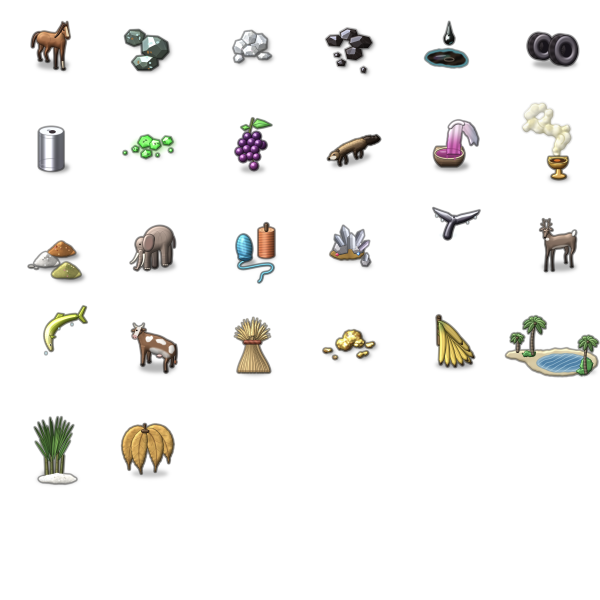
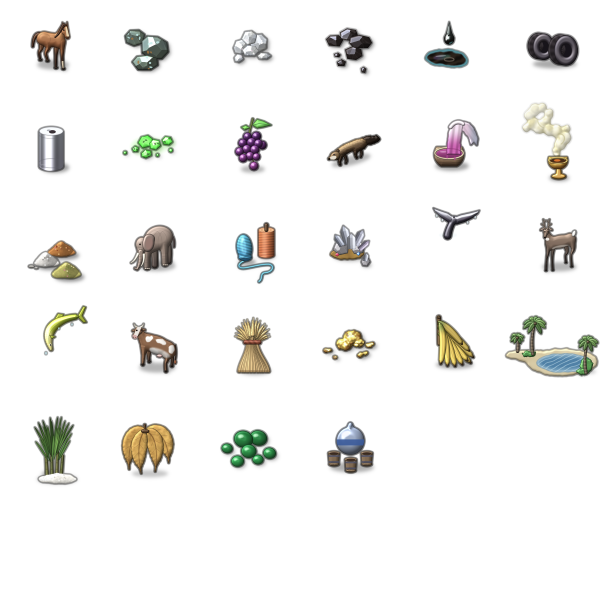
Standalone: MDJ's Jade and Sake, remade from the Sengoku conquest's, in our resource sheet's empty cells

Changed region(s): [[0.54, 0.69, 0.63, 0.81], [0.36, 0.69, 0.48, 0.78]]

diff --git a/ArtGen/terrain_features/resources.py b/ArtGen/terrain_features/resources.py
@@ -1373,6 +1373,66 @@ def crystal(cv, base, tip, w, col, seed):
         cv.atop(np.maximum(line, along - ln * neck), hexc('#ffffff') if edge_off > 0 else hexc('#40405a'), 0.35)
 
 
+def icon_jade():
+    """MDJ's Jade (the Sengoku conquest's resources.pcx, cell 7): a heap of
+    polished green stones."""
+    cv, sh = Canvas(), Shadow()
+    stones = [  # back to front: x, y, rx, ry, seed
+        (29.2, 19.0, 4.4, 3.8, 81), (21.8, 19.6, 4.8, 4.2, 82), (13.6, 24.2, 2.8, 2.4, 83),
+        (34.8, 26.6, 3.2, 2.8, 84), (24.4, 25.6, 3.8, 3.4, 85), (29.0, 29.8, 2.8, 2.4, 86),
+        (18.8, 30.6, 3.2, 2.8, 87),
+    ]
+    for x, y, rx, ry, s in stones:
+        sh.ellipse(x + 1.0, y + 1.4, rx, ry * 0.8, 0.8)
+    for i, (x, y, rx, ry, s) in enumerate(stones):
+        d = sd_ellipse(x, y, rx, ry, (s * 37) % 40 - 20)
+        depth = 0.82 + 0.18 * (i / len(stones))
+        base = mix(hexc('#1f7a3a'), hexc('#3aa856'), np.clip((Y - y + ry) / (2 * ry), 0, 1)) * depth
+        n = bulge(d, min(rx, ry) * 0.9)
+        col = shade(base, n, d, amb=0.5, dif=0.7, spec=0.6, shin=30, rim=0.3, edge=0.5, ew=0.4,
+                    spec_col=(0.9, 1.0, 0.9))
+        cv.put(d, col)
+        # the stone's milky light inside, as polished jade has
+        cv.atop(np.maximum(sd_ellipse(x - rx * 0.3, y - ry * 0.35, rx * 0.3, ry * 0.22), d), hexc('#dcf4dc'), 0.5, soft=0.4)
+    return finish([(cv, 0.5)], sh)
+
+
+def icon_sake():
+    """MDJ's Sake (the Sengoku conquest's resources.pcx, cell 8): a glazed
+    bottle with a blue band, and three little wooden cups before it."""
+    cv, sh = Canvas(), Shadow()
+    sh.ellipse(26.0, 33.6, 11.0, 2.6, 0.75)
+    glaze = hexc('#94a2bc')
+    body = union(sd_circle(25.2, 20.4, 7.0), sd_ellipse(25.2, 13.6, 1.5, 2.4), k=1.2)
+    n = bulge(body, 4.5)
+    col = shade(mix(glaze * 1.08, glaze * 0.82, np.clip((Y - 13) / 14, 0, 1)), n, body,
+                amb=0.5, dif=0.7, spec=0.75, shin=34, rim=0.3, edge=0.5, ew=0.4)
+    cv.put(body, col)
+    band = np.maximum(np.abs(Y - 21.2) - 1.5, body + 0.2)
+    cv.atop(band, hexc('#3a5a9a'), 0.9)
+    cv.atop(np.maximum(sd_ellipse(22.6, 17.0, 2.0, 1.4), body), hexc('#f4f6ff'), 0.7, soft=0.5)
+    wood, hoop = hexc('#7a644c'), hexc('#4a4e66')
+    for cx, cy in ((17.0, 29.4), (33.4, 29.4), (25.4, 32.6)):
+        cup = sd_poly([(cx - 3.0, cy - 2.8), (cx + 3.0, cy - 2.8), (cx + 2.5, cy + 2.8), (cx - 2.5, cy + 2.8)])
+        cup = union(cup, sd_ellipse(cx, cy + 2.8, 2.5, 0.9), k=0.6)
+        nc = bulge(cup, 2.0)
+        cv.put(cup, shade(wood, nc, cup, amb=0.55, dif=0.6, spec=0.15, rim=0.2, edge=0.5, ew=0.35))
+        for hy in (cy - 1.4, cy + 1.6):
+            cv.atop(np.maximum(np.abs(Y - hy) - 0.45, cup + 0.1), hoop, 0.8)
+        rim = sd_ellipse(cx, cy - 2.8, 3.0, 1.0)
+        cv.put(rim, shade(wood * 1.1, bulge(rim, 0.6), rim, amb=0.6, dif=0.5, edge=0.4, ew=0.3))
+        cv.put(sd_ellipse(cx, cy - 2.7, 2.3, 0.6), hexc('#3a2a20'))
+    return finish([(cv, 0.6)], sh)
+
+
+# The icons MDJ (C7/Lua/mdj) adds, past the original's 26 in cells of the
+# sheet the original leaves empty; standalone mode shows its Jade and Sake
+# with them (C7/Lua/standalone/ruleset.lua). Each is muted against its own
+# original in the Sengoku conquest's resources.pcx.
+EXTRA_ICONS = {26: (icon_jade, 7), 27: (icon_sake, 8)}
+SENGOKU_REL = 'Conquests/Sengoku/Art/resources.pcx'
+
+
 ICONS = [icon_horse, icon_iron, icon_saltpeter, icon_coal, icon_oil, icon_rubber,
          icon_aluminum, icon_uranium, icon_wine, icon_furs, icon_dyes, icon_incense,
          icon_spices, icon_ivory, icon_silks, icon_gems, icon_whales, icon_game,
@@ -1383,7 +1443,9 @@ ICONS = [icon_horse, icon_iron, icon_saltpeter, icon_coal, icon_oil, icon_rubber
 def render(only=None):
     o = civ3art.SCALE * CELL
     sheet = np.zeros((6 * o, 6 * o, 4))
-    for i, fn in enumerate(ICONS):
+    icons = dict(enumerate(ICONS))
+    icons.update({i: fn for i, (fn, _) in EXTRA_ICONS.items()})
+    for i, fn in icons.items():
         if only is not None and i not in only:
             continue
         r, c = divmod(i, 6)
@@ -1391,12 +1453,17 @@ def render(only=None):
     P, A = sheet[..., :3], sheet[..., 3]
     rgb = np.where(A[..., None] > 1e-4, P / np.maximum(A, 1e-4)[..., None], 0)
     orig = civ3art.load_original(REL, shadows=True)
-    for i in range(len(ICONS)):
+    sengoku = civ3art.load_original(SENGOKU_REL, shadows=True)
+    for i in icons:
         if only is not None and i not in only:
             continue
         r, c = divmod(i, 6)
         sl = (slice(r * o, (r + 1) * o), slice(c * o, (c + 1) * o))
-        oc = orig[r * CELL:(r + 1) * CELL, c * CELL:(c + 1) * CELL]
+        if i in EXTRA_ICONS:
+            sr, sc = divmod(EXTRA_ICONS[i][1], 6)
+            oc = sengoku[sr * CELL:(sr + 1) * CELL, sc * CELL:(sc + 1) * CELL]
+        else:
+            oc = orig[r * CELL:(r + 1) * CELL, c * CELL:(c + 1) * CELL]
         rgb[sl] = mute(rgb[sl], A[sl], MUTE * mean_saturation(oc[..., :3] / 255.0, oc[..., 3] / 255.0))
     out = np.concatenate([np.clip(rgb, 0, 1), A[..., None]], -1)
     return np.round(out * 255).astype(np.uint8)

diff --git a/EngineTests/GameData/MdjScenarioTest.cs b/EngineTests/GameData/MdjScenarioTest.cs
@@ -104,6 +104,12 @@ public class MdjScenarioTest {
 		Assert.All(save.UnitPrototypes, u => Assert.StartsWith("Art/Civilopedia/Icons/Units/", u.art.pediaArt.large));
 		SaveGame withCiv3Art = GameSetup.LoadMdjRules(PathUtils.GameModesDir, Mode(standalone: false));
 		Assert.False(string.IsNullOrEmpty(withCiv3Art.ScenarioSearchPath));
+		// Jade and Sake are pictured in our own resource sheet's extra cells;
+		// with Civ3's art, in the Sengoku conquest's sheet's.
+		Assert.Equal(26, save.Resources.First(r => r.Key == "Jade").Icon);
+		Assert.Equal(27, save.Resources.First(r => r.Key == "Sake").Icon);
+		Assert.Equal(7, withCiv3Art.Resources.First(r => r.Key == "Jade").Icon);
+		Assert.Equal(4, save.Resources.First(r => r.Key == "Olive Oil").Icon);
 	}
 
 	// The bundled rules are what RegenerateRuleset --mdj makes of the BIQ
